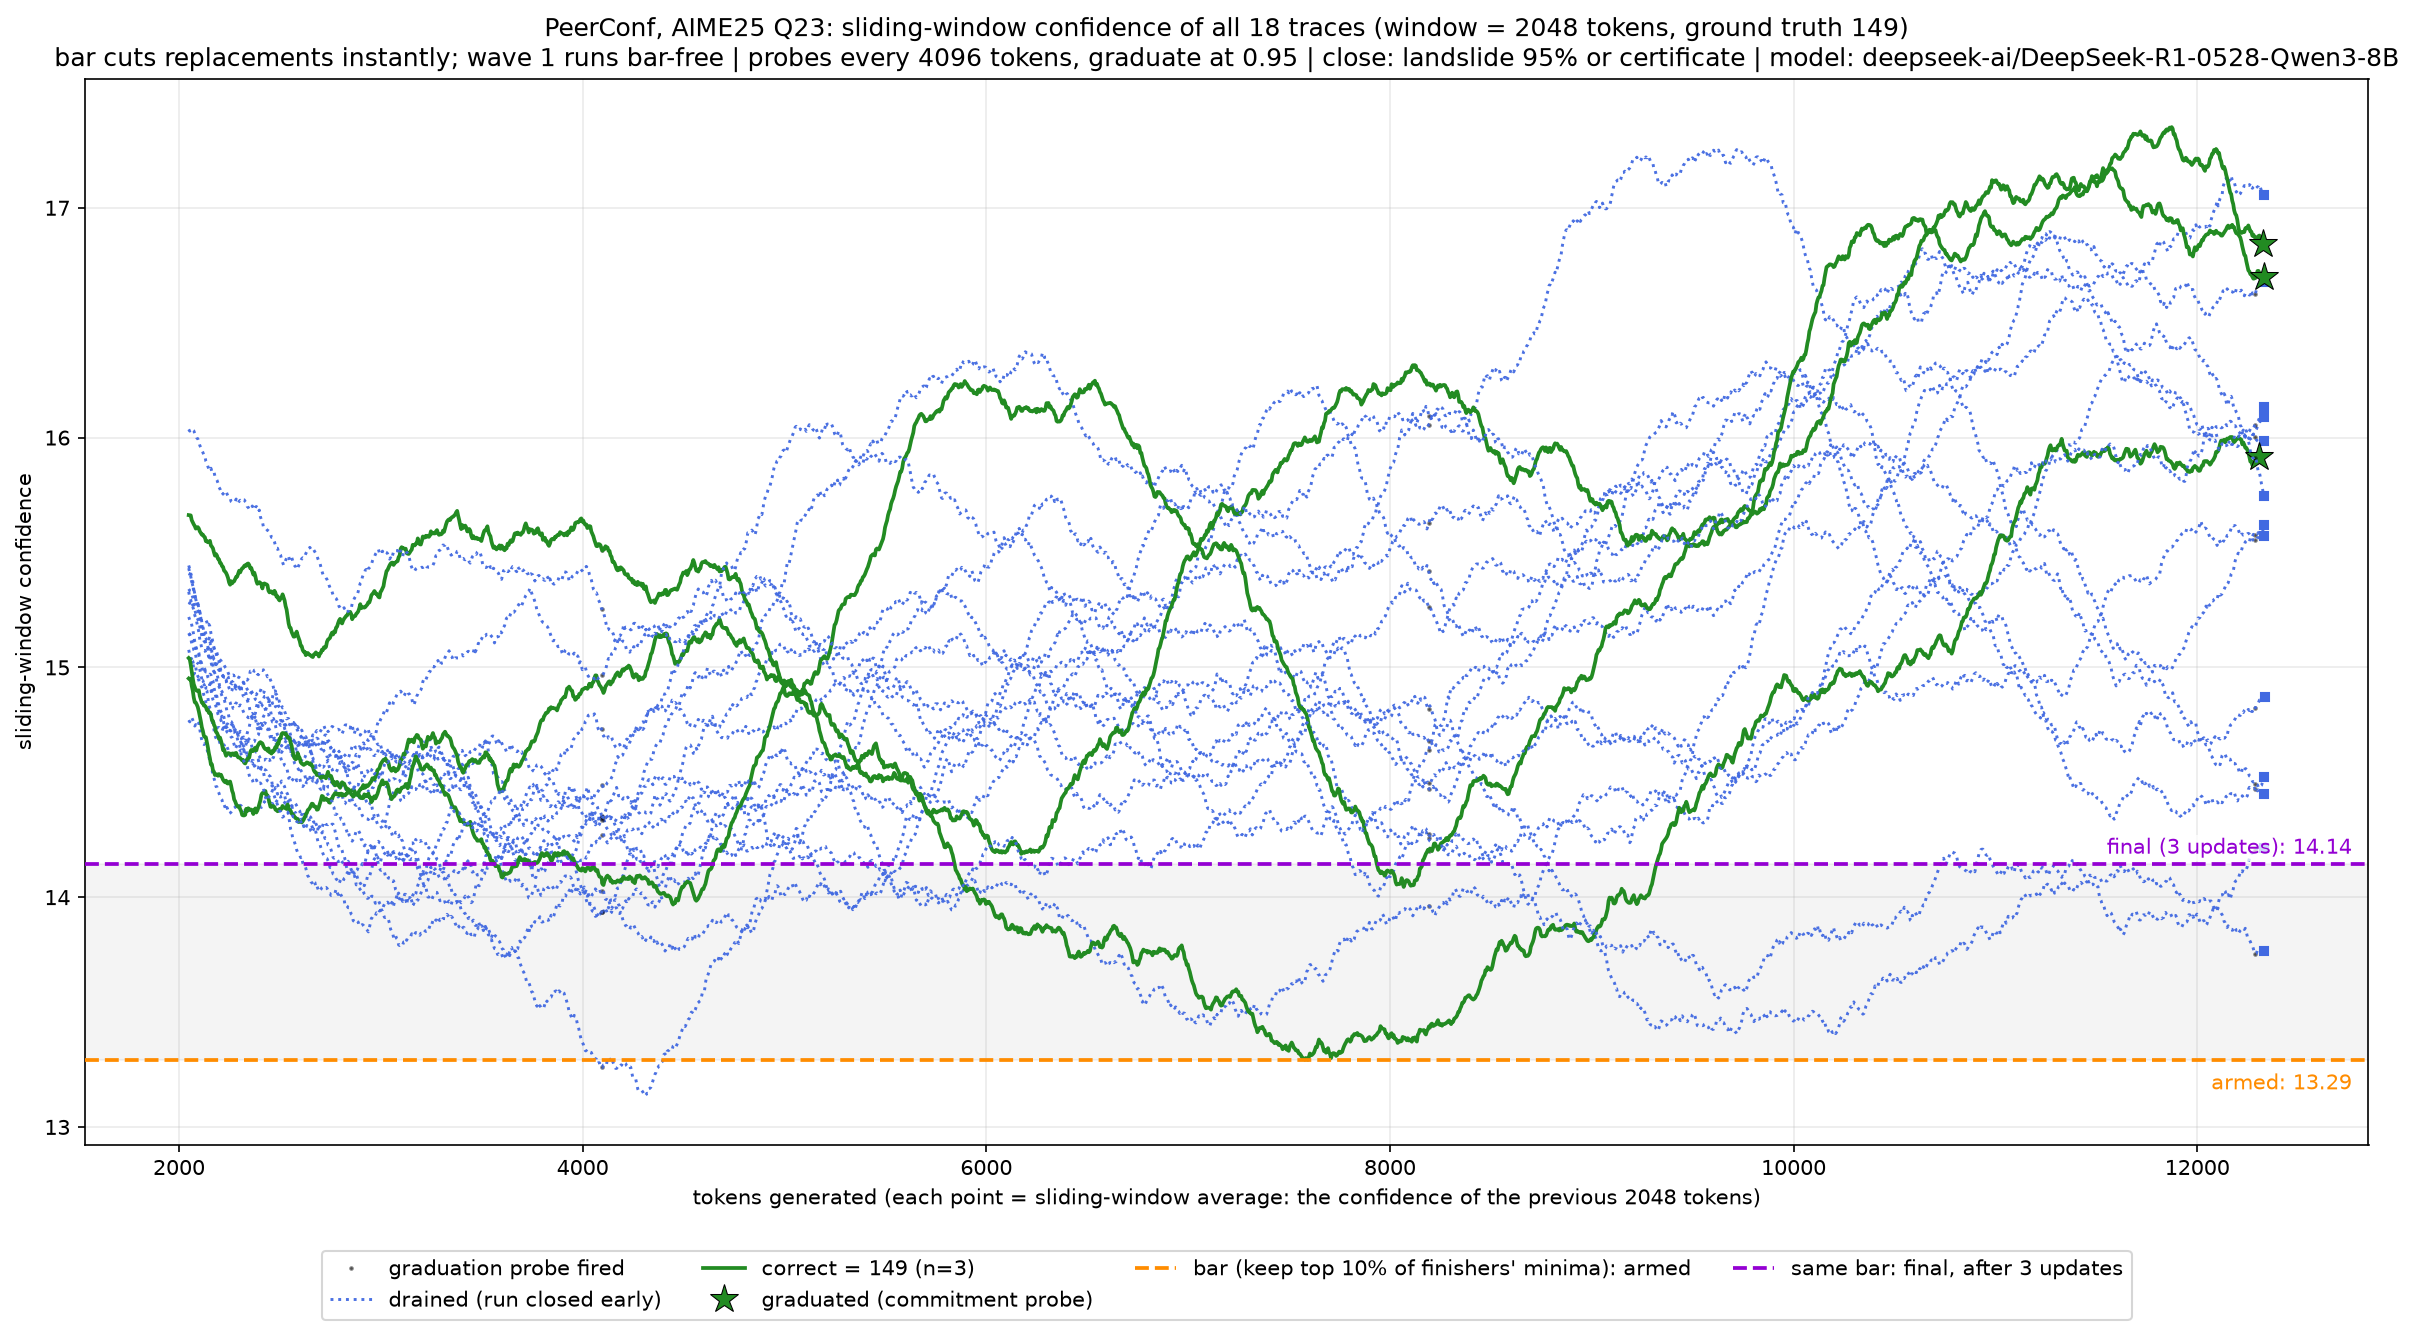
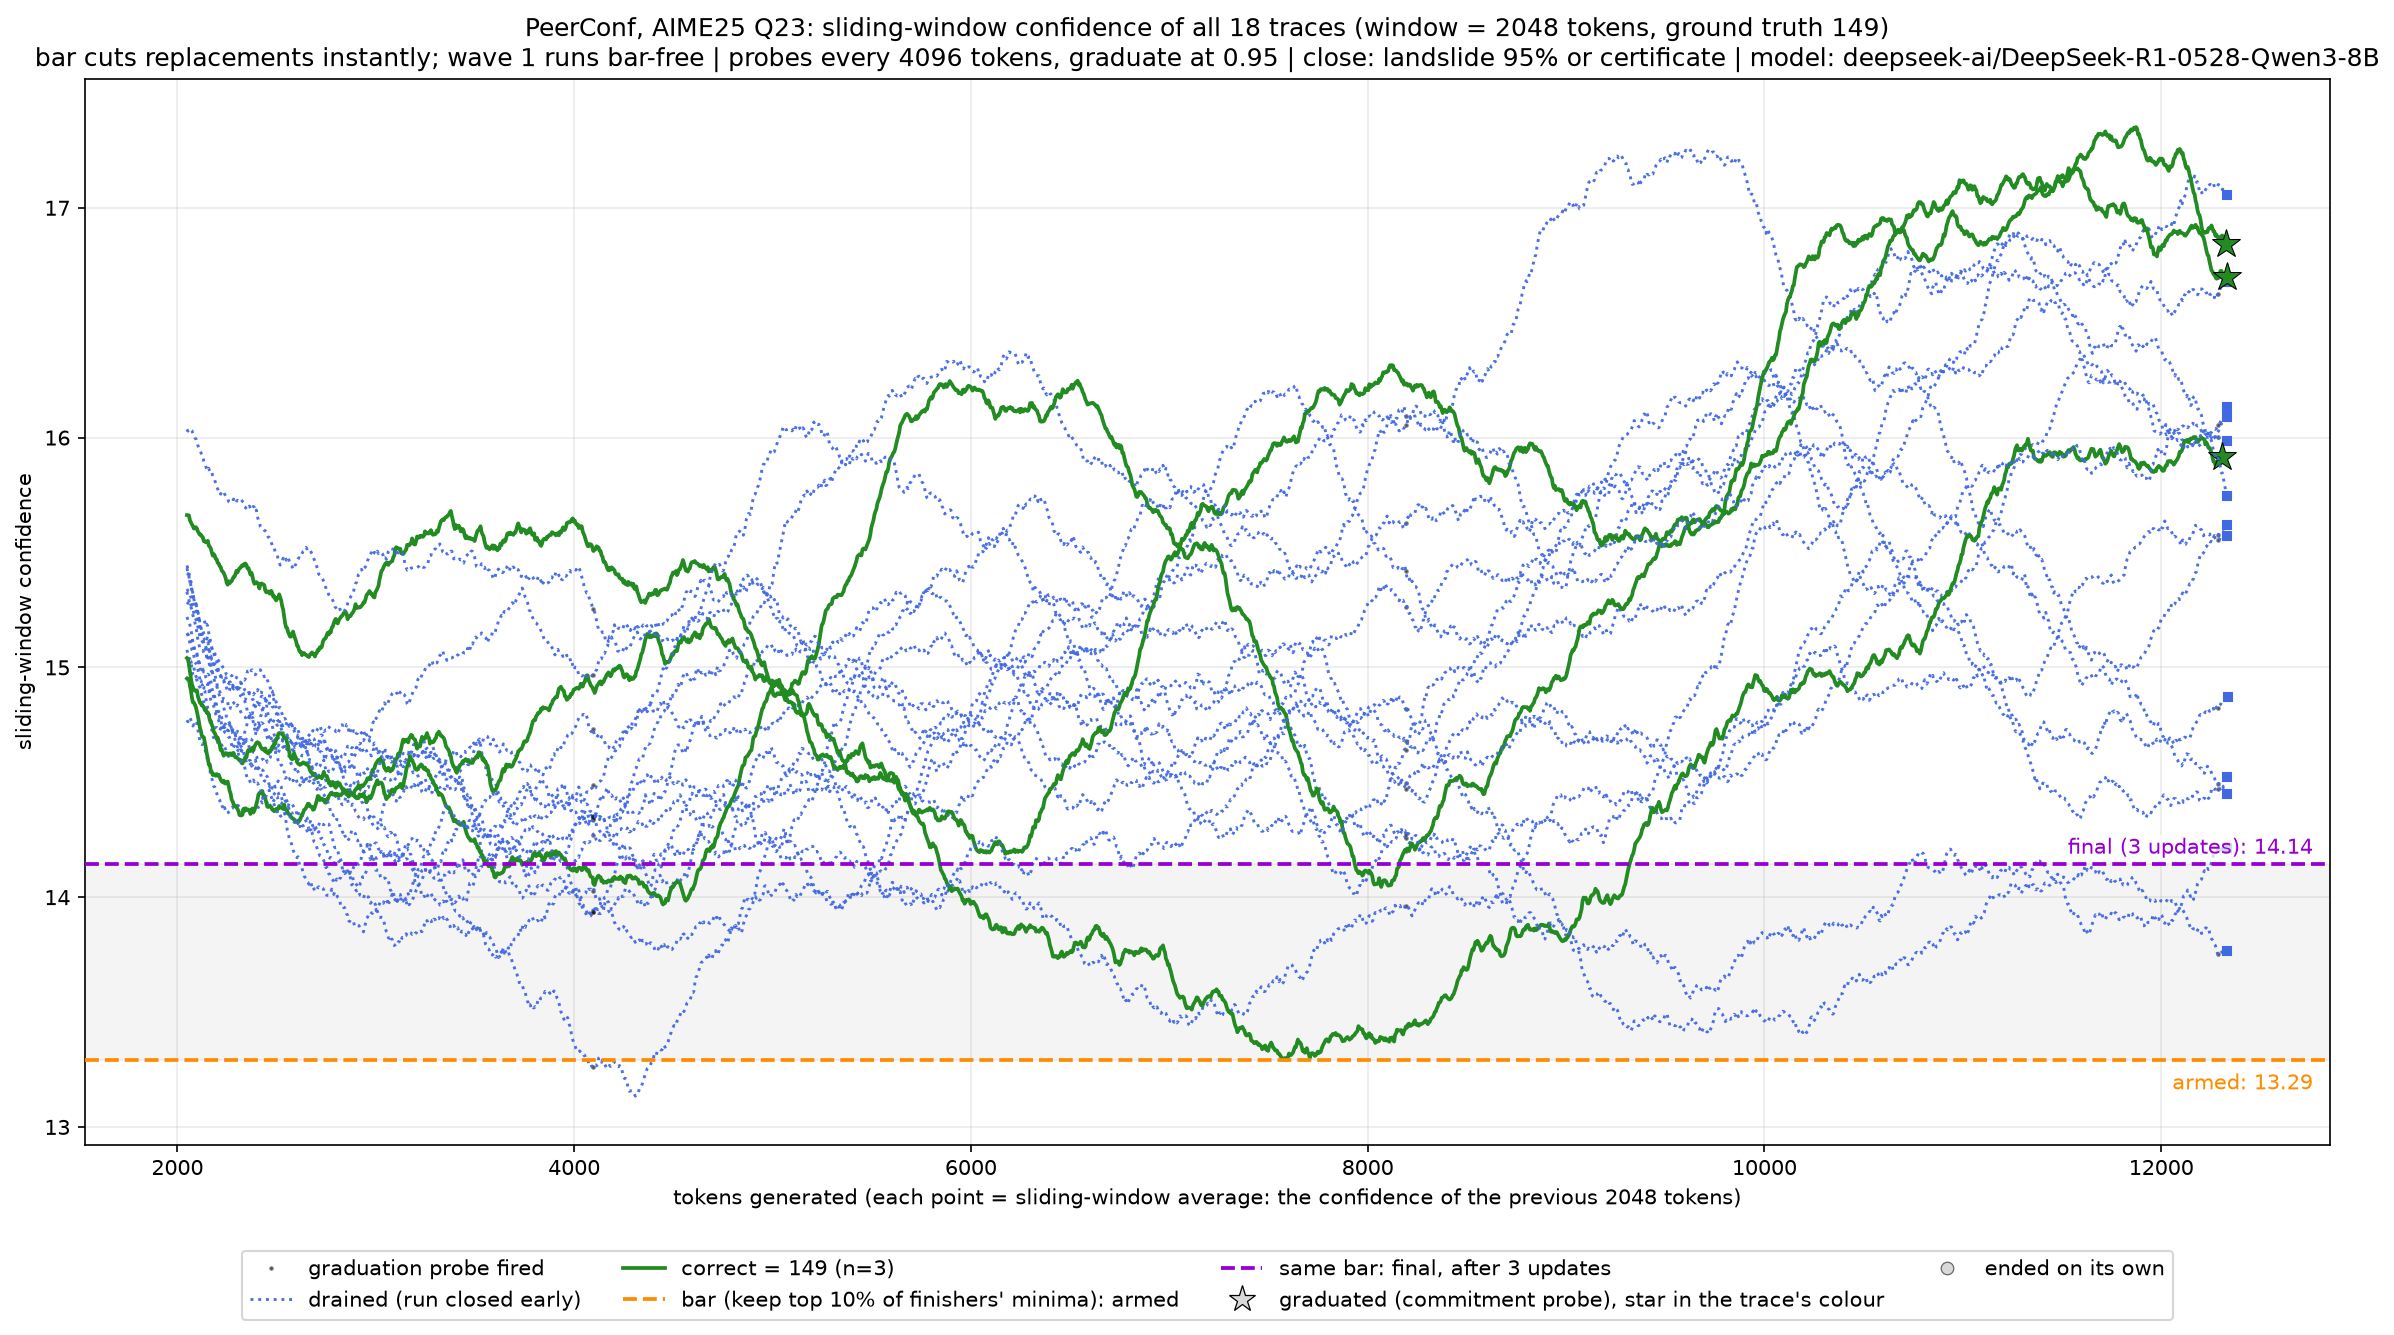
show every marker in the legend

diff --git a/peerconf/cell3_confidence_timeline.py b/peerconf/cell3_confidence_timeline.py
@@ -10,6 +10,7 @@
 import os, re, pickle
 import numpy as np
 import matplotlib.pyplot as plt
+from matplotlib.lines import Line2D
 
 OUT_DIR = os.environ.get("OUT_DIR", "peerconf_out")
 
@@ -68,11 +69,11 @@ def draw_timeline(fname):
     def end_marker(t, x_end, y_end, color):
         """How the trace left the run: * graduated | ^ loop-harvested | o natural."""
         if t.get("graduated"):
-            ax.plot(x_end, y_end, "*", color=color, ms=14, mec="black", mew=0.5,
-                    label=label_once("graduated (commitment probe)"))
+            ax.plot(x_end, y_end, "*", color=color, ms=14, mec="black", mew=0.5)
+            seen_labels.add("__grad__")
         elif t.get("looped"):
-            ax.plot(x_end, y_end, "^", color=color, ms=9, mec="black", mew=0.5,
-                    label=label_once("loop-guard harvest"))
+            ax.plot(x_end, y_end, "^", color=color, ms=9, mec="black", mew=0.5)
+            seen_labels.add("__harvest__")
         else:
             ax.plot(x_end, y_end, "o", color=color, ms=5)
 
@@ -93,14 +94,14 @@ def draw_timeline(fname):
         if t["status"] == "stopped" and t.get("looped"):
             # the loop guard, not the bar: it ends a repeating trace whatever
             # its confidence, so these can land well above the line
-            ax.plot(xs, ys, color="dimgray", lw=1.2, alpha=0.8,
-                    label=label_once("ended by the loop guard"))
+            ax.plot(xs, ys, color="dimgray", lw=1.2, alpha=0.8)
             ax.plot(x[-1], confs[-1], "^", color="black", ms=10, mew=1.0,
                     mfc="none")
+            seen_labels.add("__loop__")
         elif t["status"] == "stopped":             # cut at the bar
-            ax.plot(xs, ys, color="gray", lw=1.0, alpha=0.7,
-                    label=label_once("cut at the bar"))
+            ax.plot(xs, ys, color="gray", lw=1.0, alpha=0.7)
             ax.plot(x[-1], confs[-1], "x", color="black", ms=10, mew=2.2)
+            seen_labels.add("__cut__")
         elif t["status"] == "finished" and is_right(t["answer"]):
             ax.plot(xs, ys, color="forestgreen", lw=1.8,
                     label=label_once(f"correct = {gt} (n={n_right})"))
@@ -190,7 +191,29 @@ def draw_timeline(fname):
         f"sliding-window confidence of all {len(r['traces'])} traces "
         f"(window = {WINDOW} tokens, ground truth {gt})\n"
         f"{sub} | model: {cfg['MODEL']}")
-    ax.legend(loc="upper center", bbox_to_anchor=(0.5, -0.09), ncol=4)
+    # the end markers carry each trace's own colour, so their keys are drawn
+    # neutral: it is the shape that means something, not the fill
+    handles, labels = ax.get_legend_handles_labels()
+    if "__cut__" in seen_labels:
+        handles.append(Line2D([], [], color="gray", lw=1.0, marker="x",
+                              ms=9, mec="black", mew=2.0))
+        labels.append("cut at the bar")
+    if "__loop__" in seen_labels:
+        handles.append(Line2D([], [], color="dimgray", lw=1.2, marker="^",
+                              ms=9, mfc="none", mec="black", mew=1.0))
+        labels.append("ended by the loop guard")
+    if "__grad__" in seen_labels:
+        handles.append(Line2D([], [], ls="none", marker="*", ms=13, mfc="0.85",
+                              mec="black", mew=0.6))
+        labels.append("graduated (commitment probe), star in the trace's colour")
+    if "__harvest__" in seen_labels:
+        handles.append(Line2D([], [], ls="none", marker="^", ms=9, mfc="0.85",
+                              mec="black", mew=0.6))
+        labels.append("loop-guard harvest")
+    handles.append(Line2D([], [], ls="none", marker="o", ms=6, mfc="0.85",
+                          mec="0.4", mew=0.6))
+    labels.append("ended on its own")
+    ax.legend(handles, labels, loc="upper center", bbox_to_anchor=(0.5, -0.09), ncol=4)
     ax.grid(alpha=0.25)
     fig.tight_layout()
 
